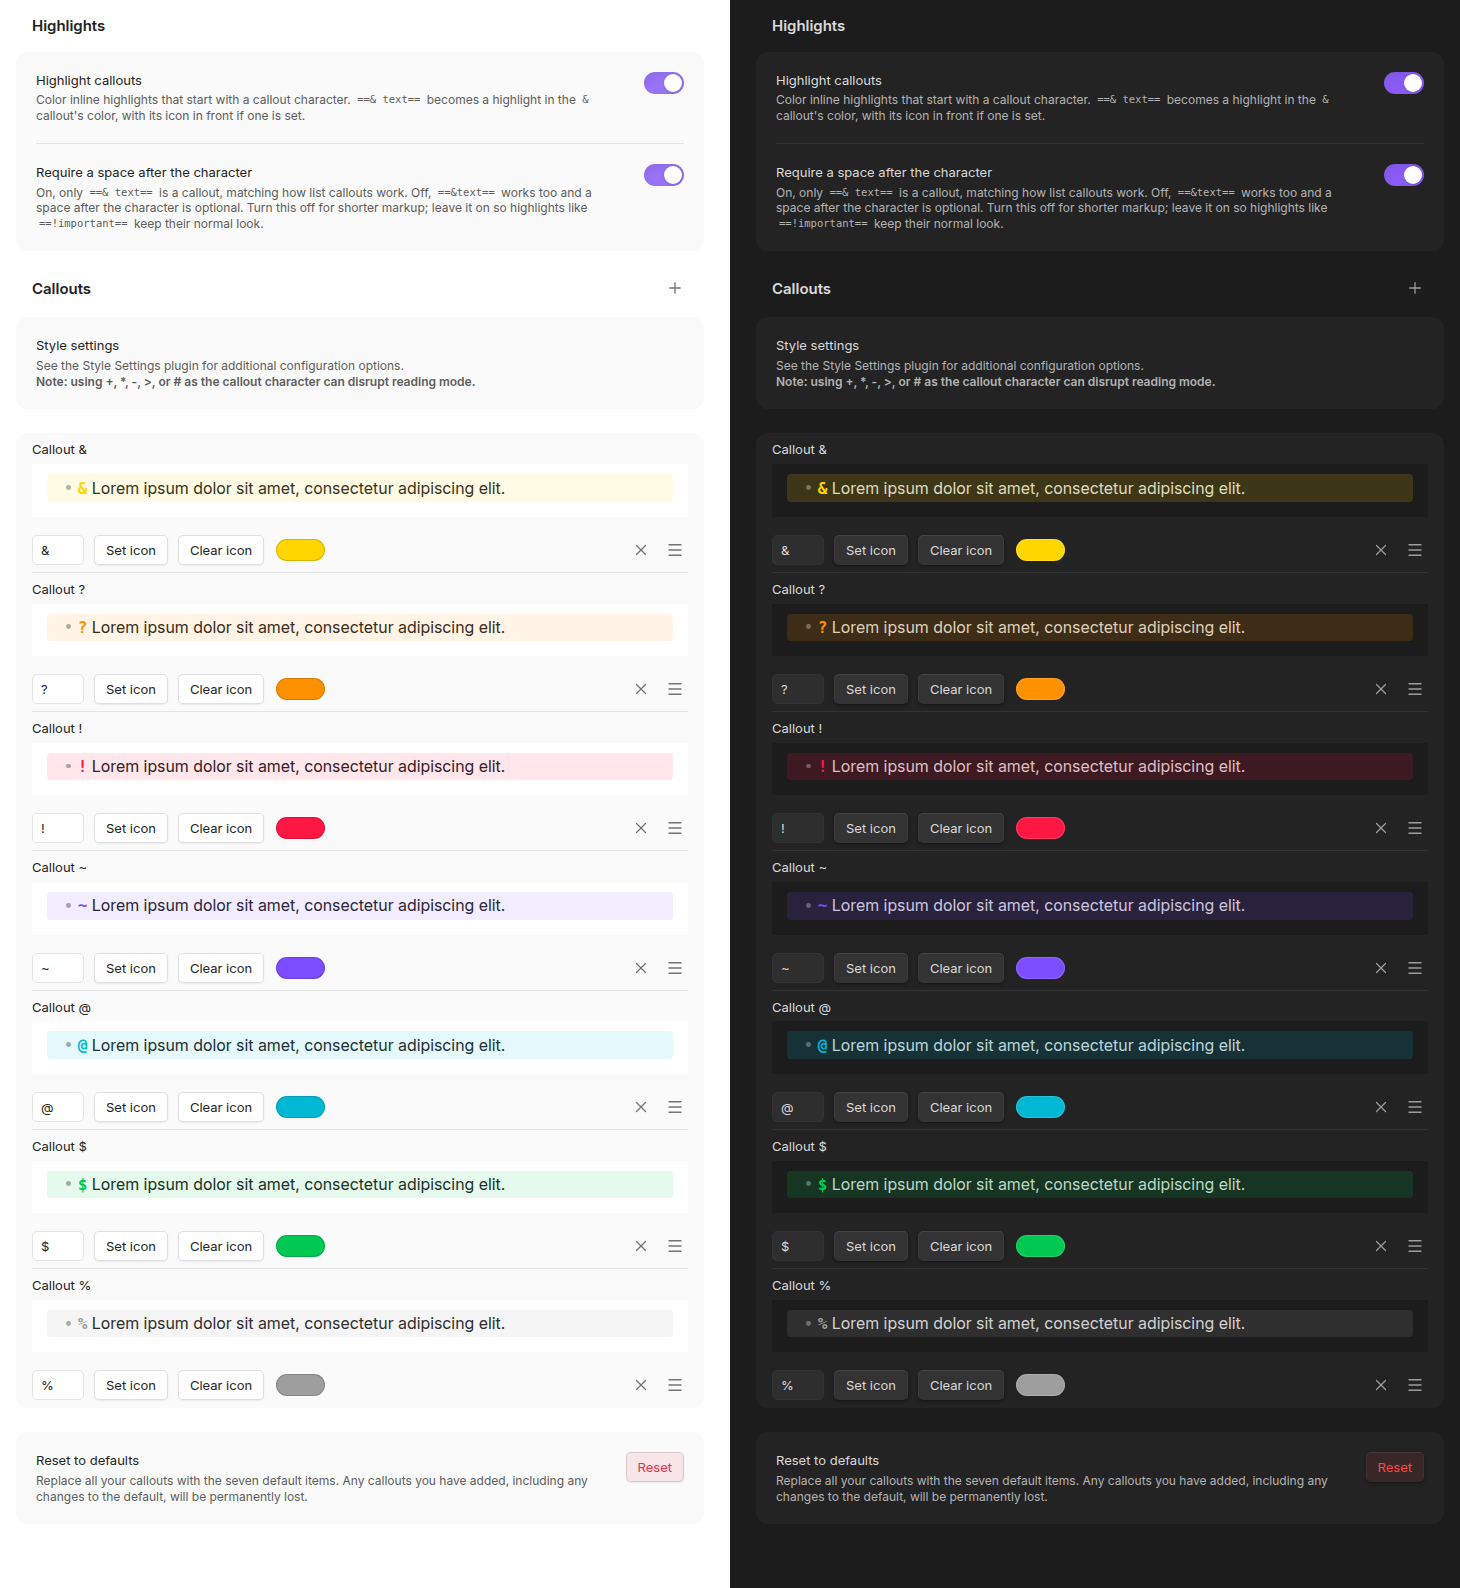
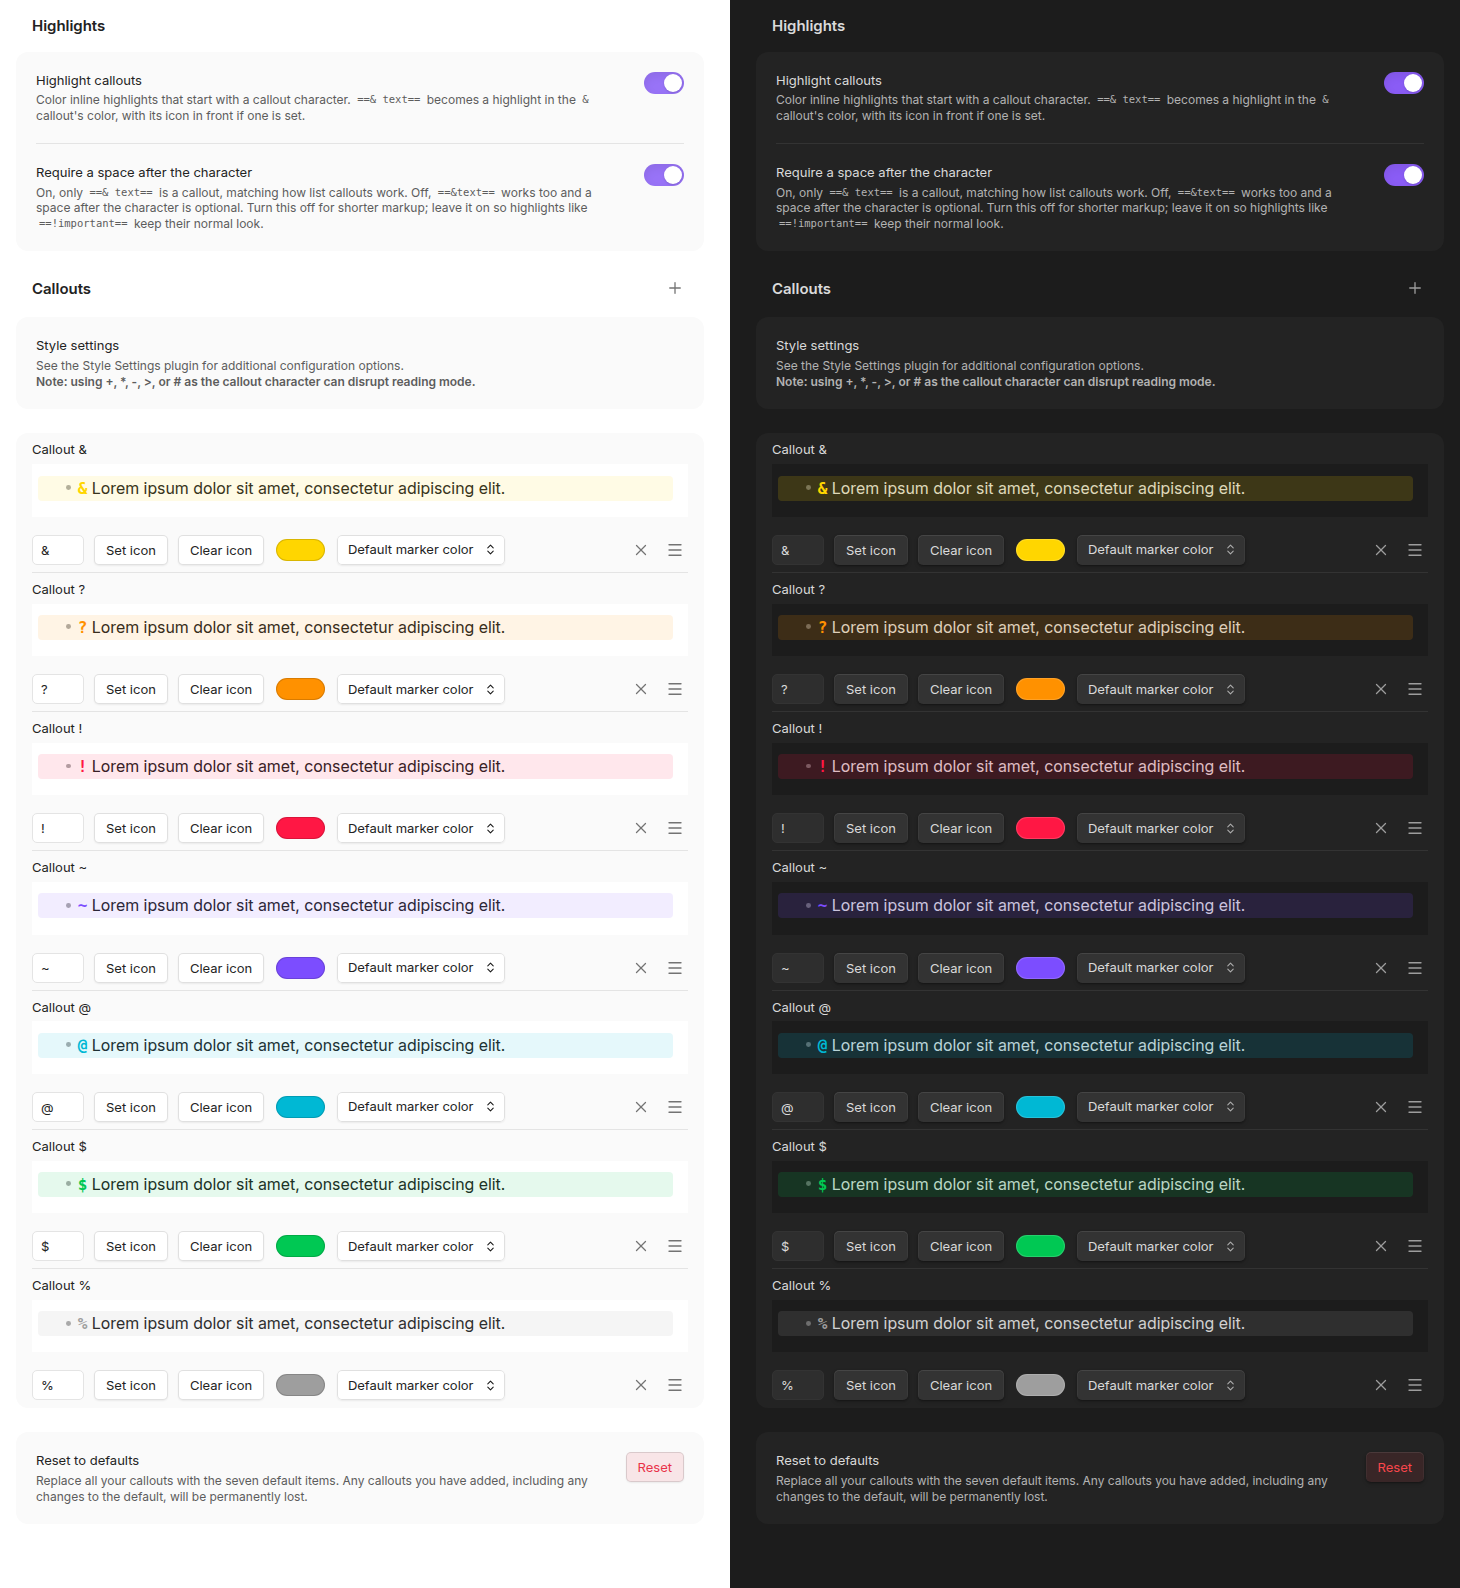
Picture the marker color override in the README
Regenerate the two settings captures that now show the marker color
dropdown, and add one of a callout row with a custom marker color in
effect -- dropdown on "Custom marker color", the second picker beside it,
and the preview's star painted apart from its background -- under the
README paragraph that describes the option.

diff --git a/test/capture/readme.capture.ts b/test/capture/readme.capture.ts
@@ -766,6 +766,52 @@ async function captureIconPicker(name: string): Promise<void> {
 }
 
 /**
+ * Capture the first callout's row with a custom marker color in effect, so
+ * the picture shows the dropdown on "Custom marker color", the second picker
+ * it reveals, and a marker painted apart from its background in the preview.
+ */
+async function captureMarkerColorRow(name: string): Promise<void> {
+  await fs.mkdir(OUT_DIR, { recursive: true });
+
+  const { original } = await enterSettingsWindow();
+
+  // Scrolled from the row's own top, as the icon picker capture does: the
+  // pane ignores scrollIntoView(), and the margin keeps the row clear of the
+  // popout window's title bar.
+  await browser.execute(() => {
+    const row = document.querySelector<HTMLElement>('.lc-setting');
+    const scrollParent = row?.closest<HTMLElement>('.vertical-tab-content');
+    if (!row || !scrollParent) return;
+
+    const PAD = 40;
+    scrollParent.scrollTop = Math.max(
+      scrollParent.scrollTop + row.getBoundingClientRect().top - PAD,
+      0
+    );
+  });
+
+  const crop = await browser.execute((pad: number) => {
+    const row = document.querySelector<HTMLElement>('.lc-setting');
+    if (!row) throw new Error('No callout row in the settings tab');
+
+    // Less room below than around: the next row's label starts right under
+    // this one's border, and the picture is about this row alone.
+    const r = row.getBoundingClientRect();
+    const left = Math.max(r.left - pad, 0);
+    const top = Math.max(r.top - pad, 0);
+
+    return {
+      x: left,
+      y: top,
+      width: Math.min(r.right + pad, window.innerWidth) - left,
+      height: Math.min(r.bottom + 2, window.innerHeight) - top,
+    };
+  }, 16);
+
+  await captureBothSchemes(name, 'marker-color', original, crop);
+}
+
+/**
  * Capture the import row on its own.
  *
  * The row is only rendered when the original plugin's settings are in the
@@ -893,6 +939,14 @@ describe('README screenshots', function () {
   it('captures the settings tab with the icon picker open', async function () {
     await setSettings(callouts(false));
     await captureIconPicker('settings-icon-picker.png');
+  });
+
+  it('captures a callout with a custom marker color', async function () {
+    // The star's usual yellow stays on the background; the marker itself
+    // goes a dark amber that reads against it.
+    const [first, ...rest] = callouts(true);
+    await setSettings([{ ...first, markerColor: '180, 83, 9' }, ...rest]);
+    await captureMarkerColorRow('settings-marker-color.png');
   });
 
   it('captures the import offer', async function () {

diff --git a/README.md b/README.md
@@ -21,7 +21,9 @@ Characters, icons and colors are all configurable, and you can add your own call
 
 ![The plugin settings tab with the icon picker open, in light and dark mode](screenshots/settings-icon-picker.png)
 
-A callout's color paints both its marker and its background. When the two need to differ — a background that is too faint to read the marker against, say — switch **Default marker color** to **Custom marker color** and pick one for the marker alone. The background keeps the callout's color, and the same marker color is used for that callout's highlights.
+A callout's color paints both its marker and its background. When the two need to differ — a background that is too faint to read the marker against, say — switch **Default marker color** to **Custom marker color** and pick one for the marker alone. The background keeps the callout's color, and the same marker color is used for that callout's highlights:
+
+![A callout's settings row with the marker color dropdown on "Custom marker color" and a second picker beside it, its preview showing a dark amber star on the callout's yellow background, in light and dark mode](screenshots/settings-marker-color.png)
 
 The padding of the callouts and the intensity of their backgrounds can be adjusted using the Style Settings plugin.
 
@@ -51,7 +53,7 @@ any of them can be edited, reordered by dragging, or deleted — the built-in on
 included. Nothing is fixed, so a vault can end up with a completely different set, or
 with none at all.
 
-![The plugin's settings tab in full: the highlight toggles, then the seven built-in callouts each with a preview, character, icon and color, and the reset at the bottom, shown in light and dark mode](screenshots/settings.png)
+![The plugin's settings tab in full: the highlight toggles, then the seven built-in callouts each with a preview, character, icon, color and marker color, and the reset at the bottom, shown in light and dark mode](screenshots/settings.png)
 
 **Reset to defaults**, at the bottom of the settings tab, puts the original seven
 back. It replaces everything currently configured, so callouts you have added and
